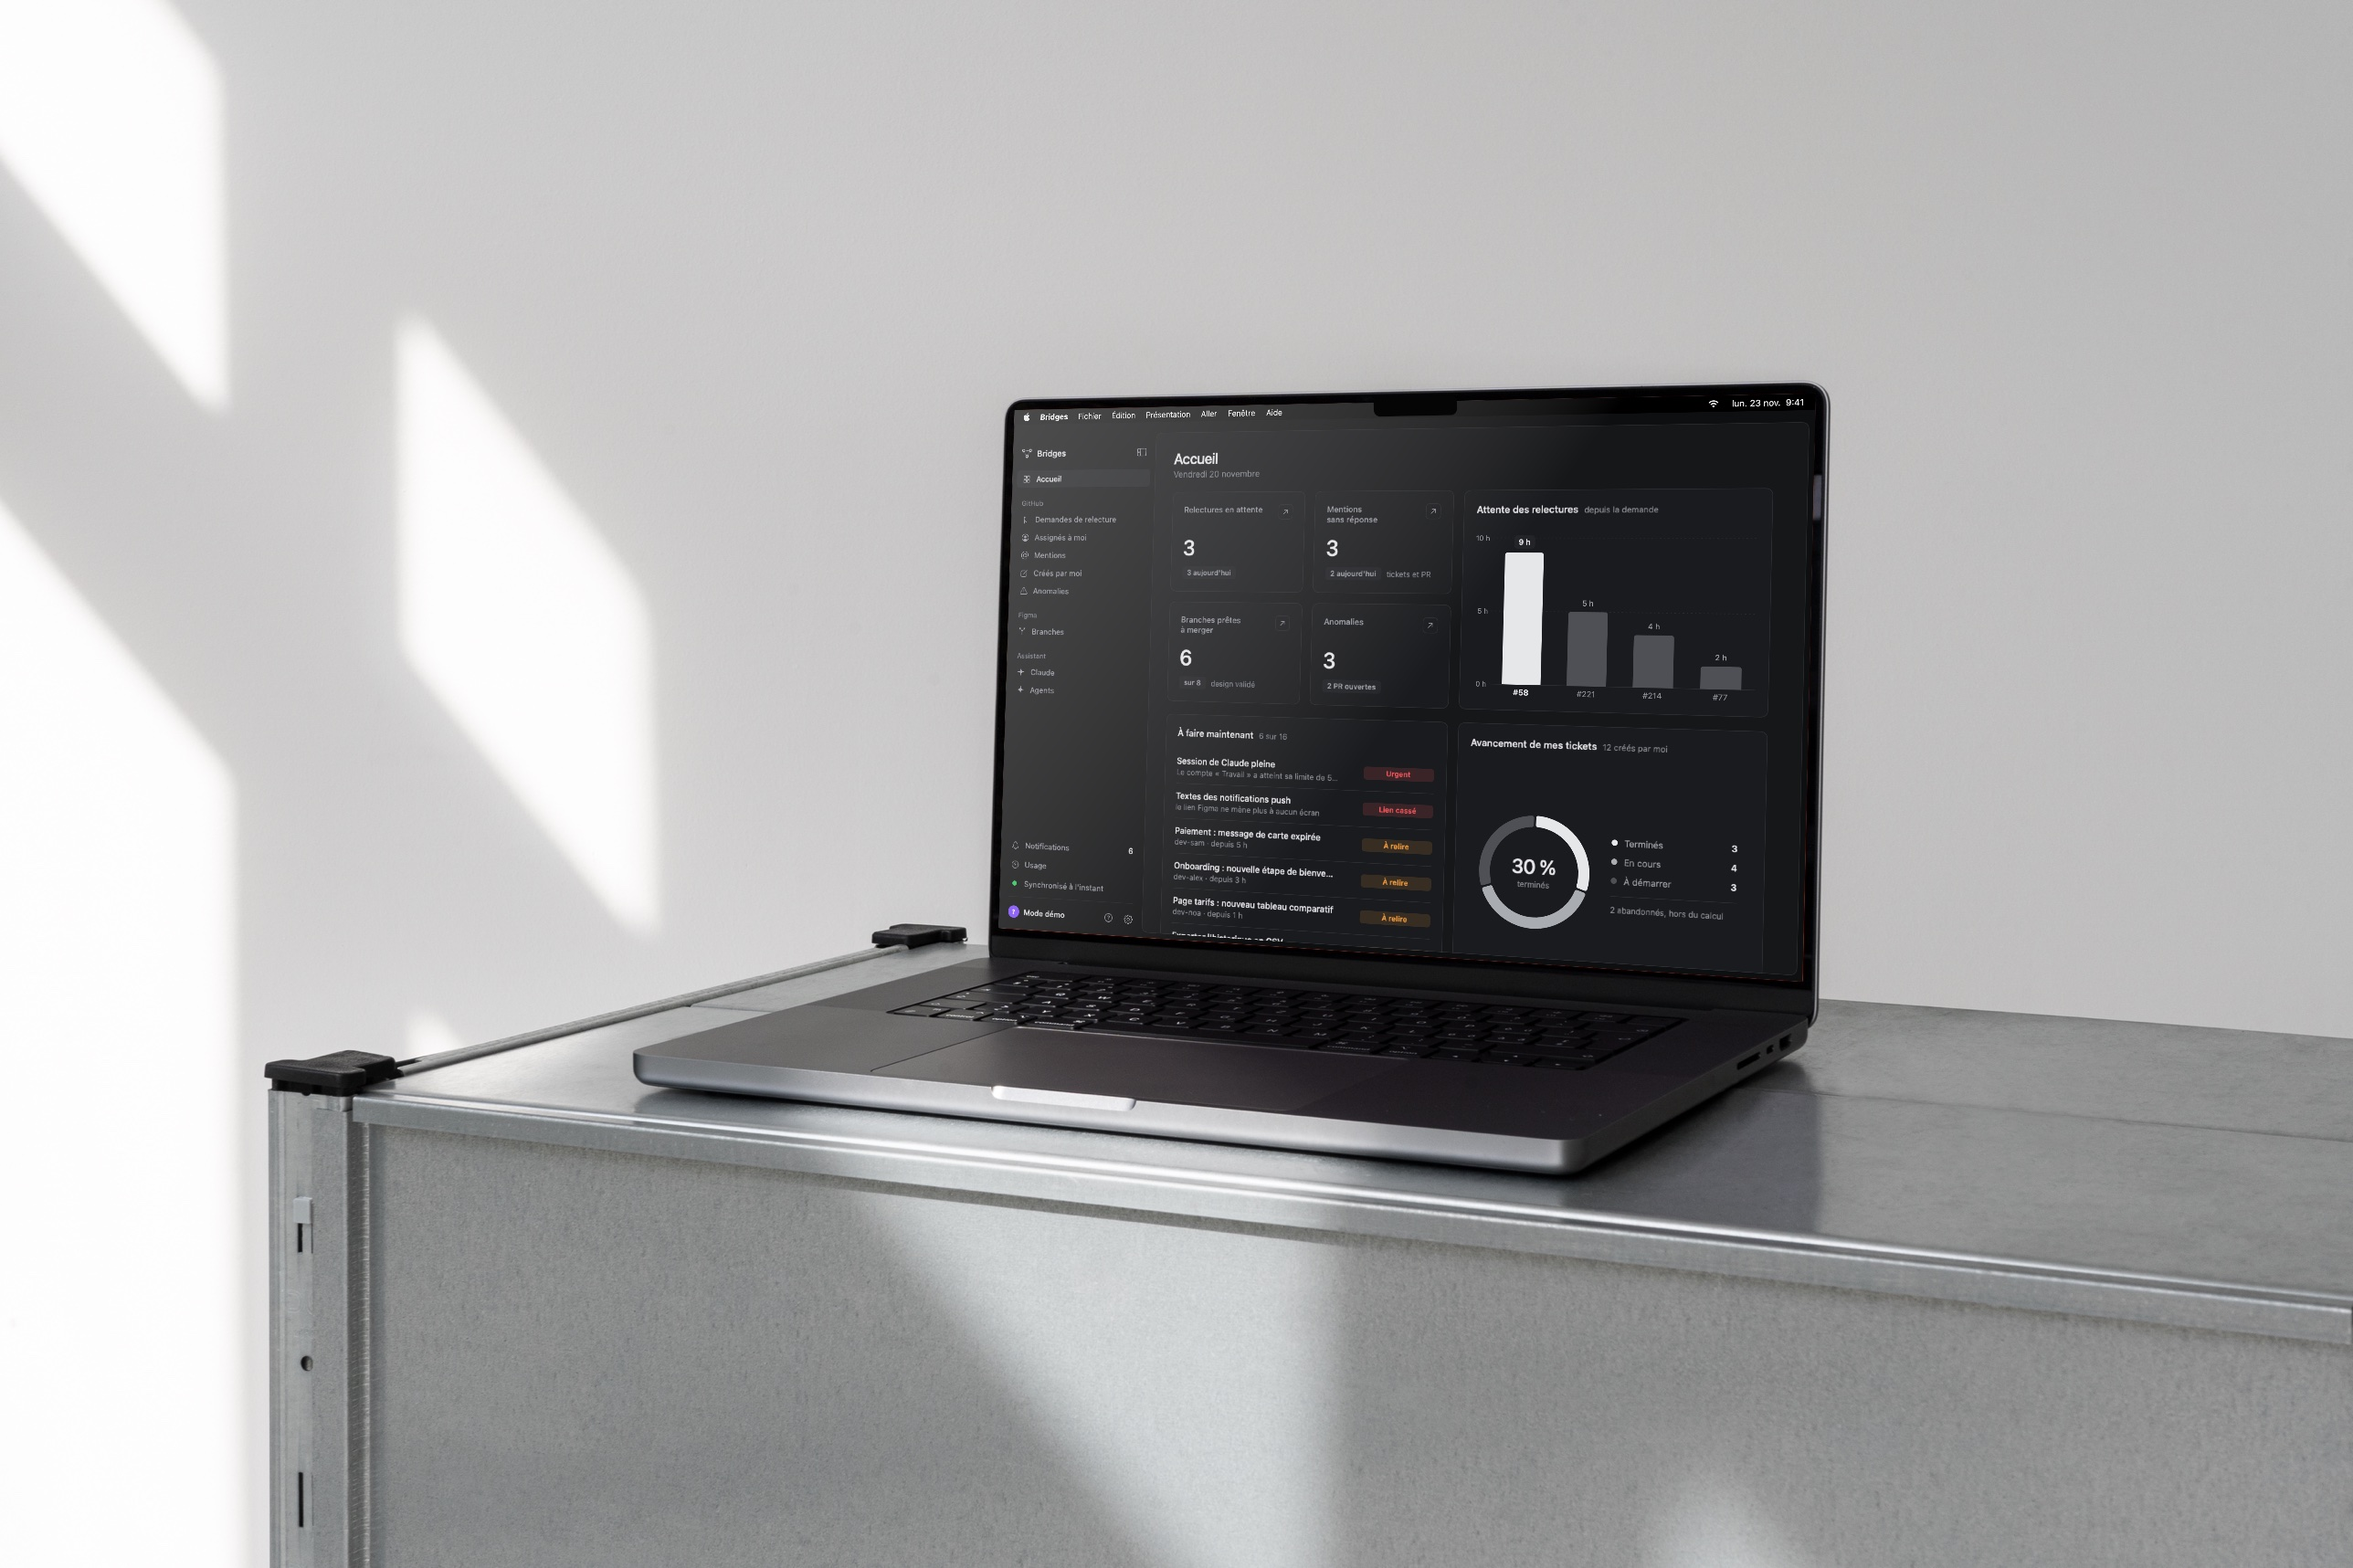
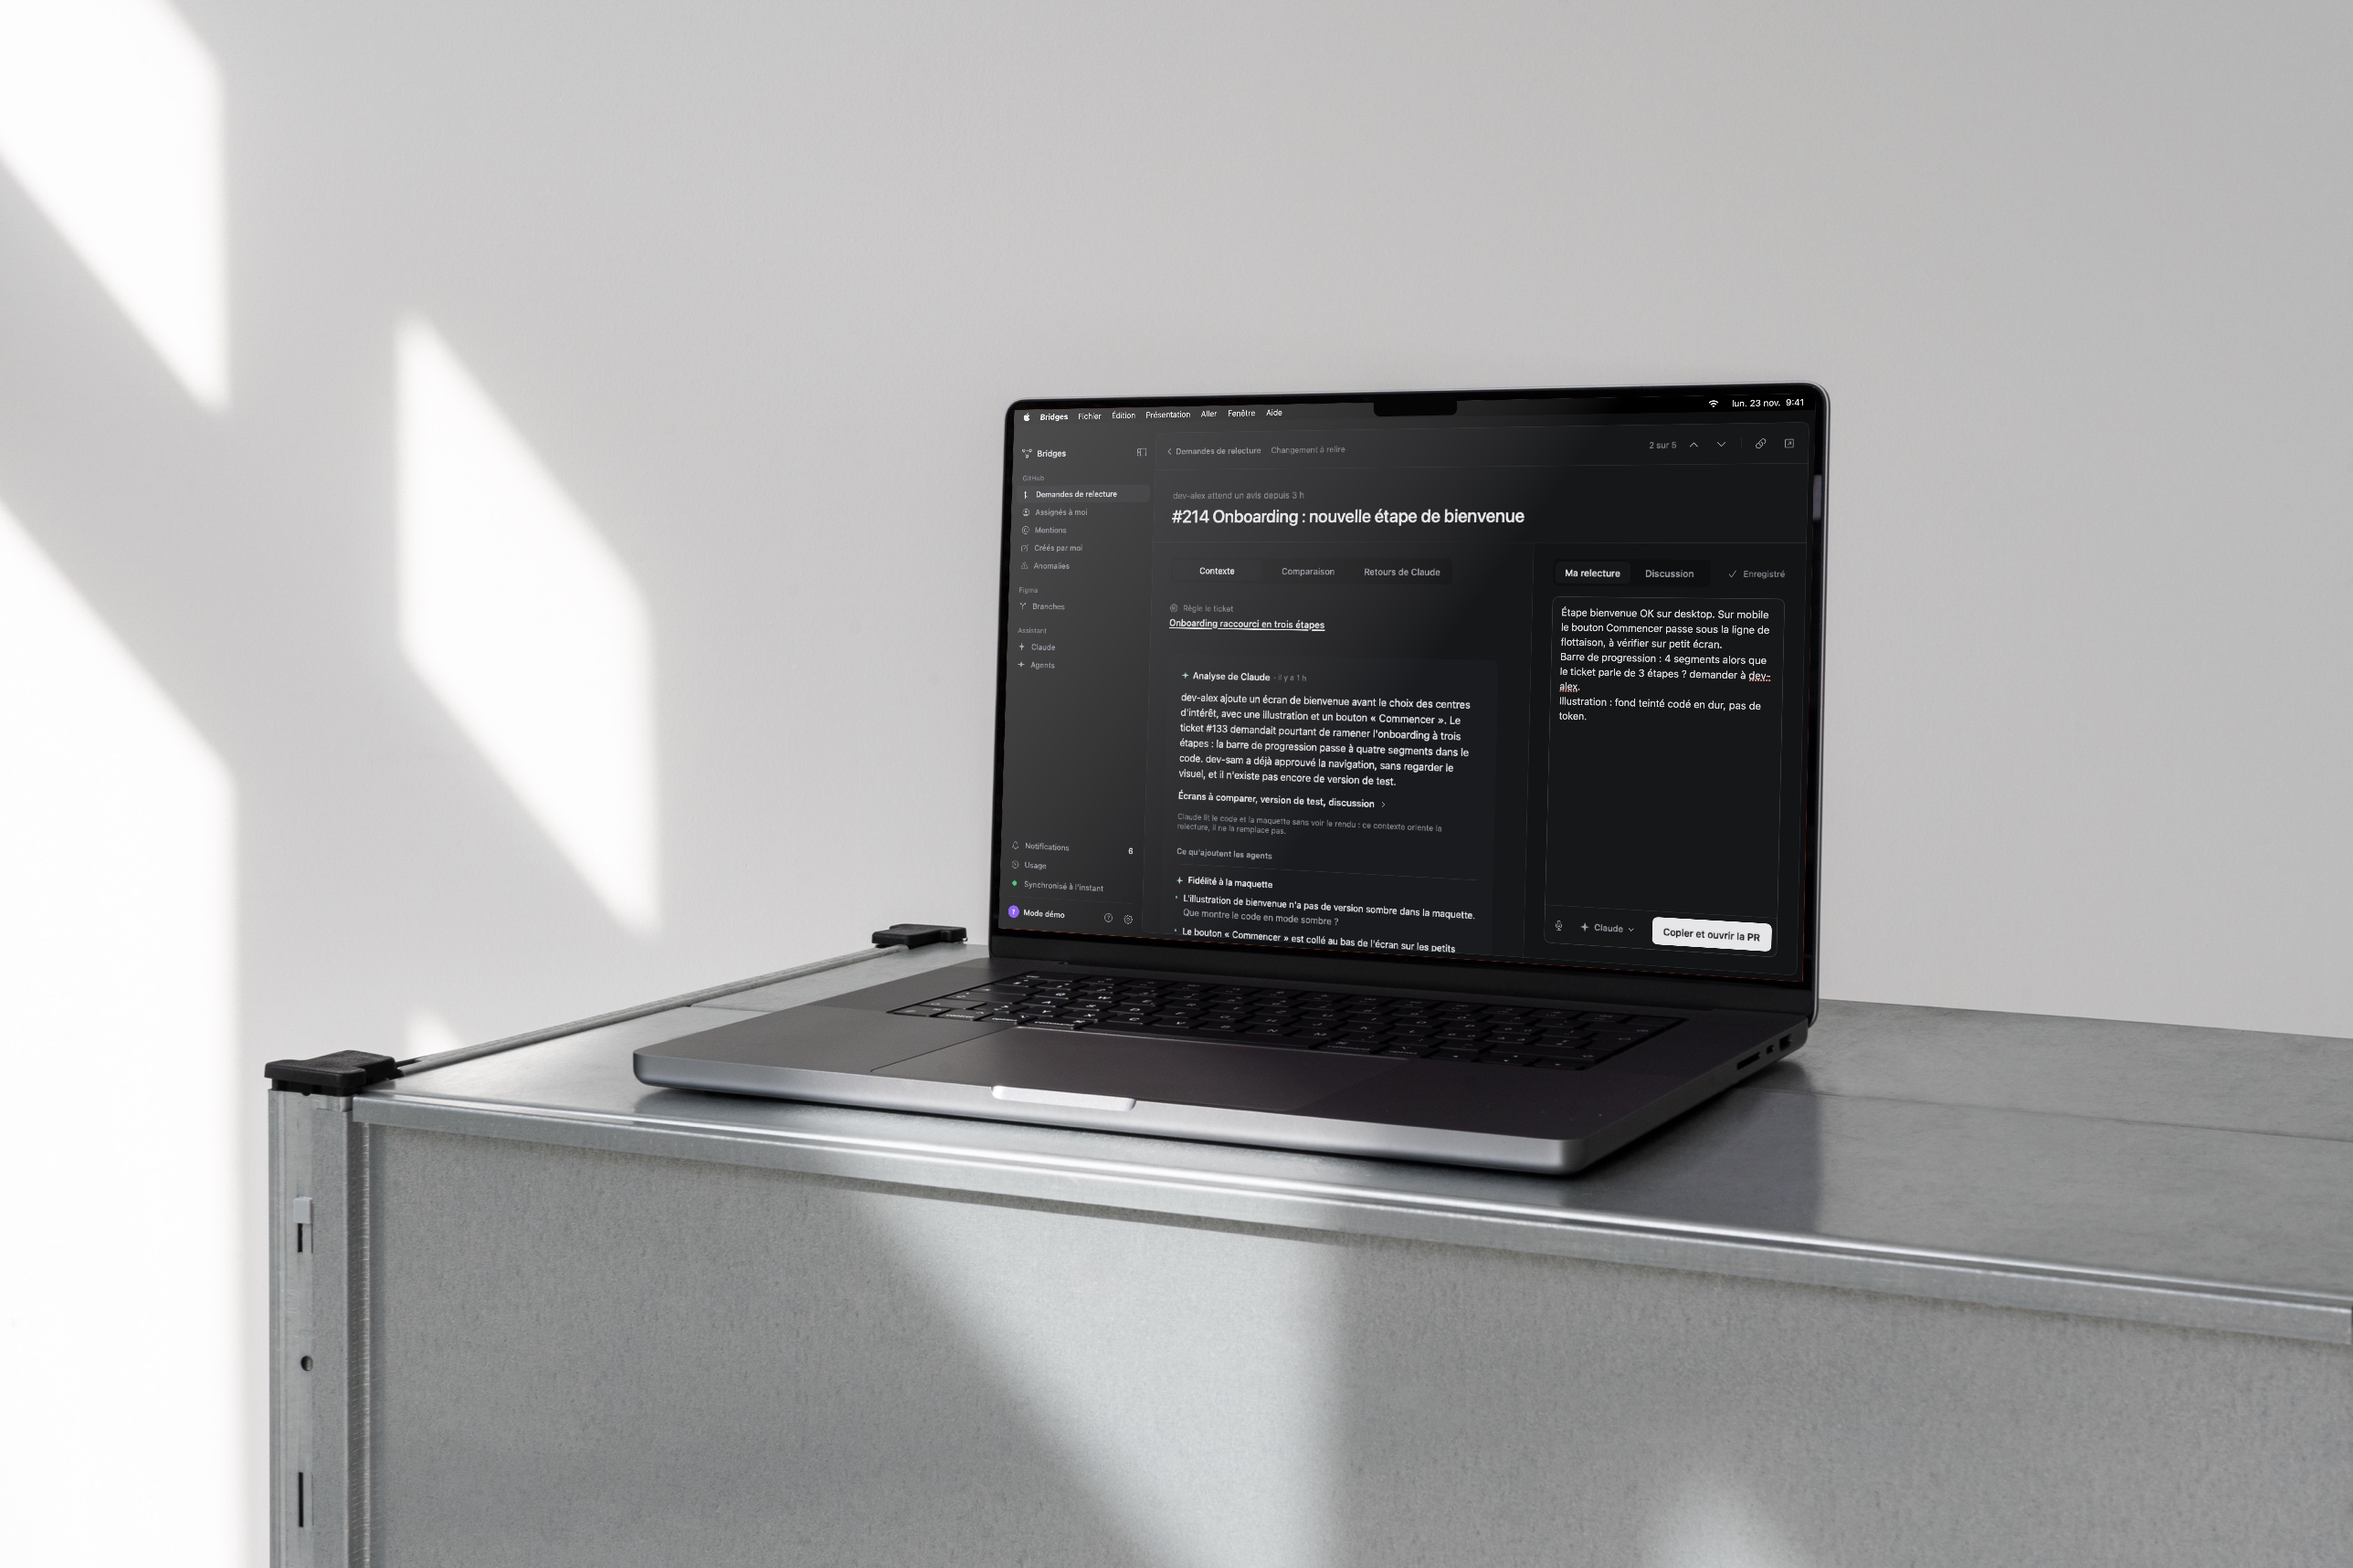
Page de présentation

Changed region(s): [[0.4969, 0.2778, 0.7764, 0.6174], [0.4348, 0.3087, 0.4658, 0.3704], [0.4348, 0.4013, 0.4658, 0.4321]]

diff --git a/CHANGELOG.md b/CHANGELOG.md
@@ -3,15 +3,18 @@
 Une version est publiée chaque lundi à 7 h. Chaque version est signée « Developer ID » et notarisée par Apple ; l'application
 propose elle-même son installation.
 
+## 1.15.0 — 20 novembre 2026
+
+- **Ouverture** : l'application s'ouvre sur les demandes de relecture.
+
 ## 1.14.1 — 20 novembre 2026
 
-- **Accueil** : l'avancement des tickets garde l'anneau et sa légende côte à côte dès une fenêtre de 1 280 points, centrés dans leur carte.
+- **Correctif** : ajustements d'affichage.
 
 ## 1.14.0 — 20 novembre 2026
 
-- **Nouvel accueil** : quatre chiffres clés (relectures en attente, mentions sans réponse, branches prêtes à merger, anomalies), chacun ouvrant son écran ; l'attente de chaque relecture en colonnes, la plus ancienne mise en avant ; « À faire maintenant » avec l'état de chaque action en toutes lettres (Urgent, À relire, À répondre, À maquetter, À merger) ; l'avancement des tickets créés en anneau ; les branches Figma en tableau. Les graphiques passent en gris neutres : seules les couleurs d'état signalent.
 - **Agents** : un agent porte l'étoile de Claude, dans la barre latérale, la palette, l'écran Agents et les analyses.
-- **Correctifs** : les cartes de l'accueil ne débordent plus de la fenêtre ; deux tickets dont la description avait la même longueur ne partagent plus leurs liens Figma.
+- **Correctif** : deux tickets dont la description avait la même longueur ne partagent plus leurs liens Figma.
 
 ## 1.13.0 — 20 novembre 2026
 
@@ -24,16 +27,13 @@ propose elle-même son installation.
 
 ## 1.12.0 — 20 novembre 2026
 
-- **Accueil en trois colonnes** : quatre graphiques sur deux rangées (attente des relectures, demandes reçues, branches Figma, tickets créés) et la liste « À faire maintenant » sur toute la hauteur de la troisième colonne. Le titre « N actions en attente » et la carte du forfait Claude disparaissent : la date suffit, et l'usage reste dans la barre latérale.
 - **Aide** : un centre d'aide en ligne, bridges.works/aide, s'ouvre depuis le menu Aide (⌘?), la palette de commandes, Réglages › À propos ou l'icône « ? » à côté des réglages, en bas de la barre latérale. Les retours s'y envoient sans inscription ; « Copier et écrire à l'assistance » joint le diagnostic à un e-mail prêt à compléter.
 - **Accessibilité** : « Réduire la transparence » et « Différencier sans couleur » suivent macOS et se règlent dans Réglages › Accessibilité ; les pastilles d'état prennent alors une forme distincte (urgent, à traiter, prêt). Avec VoiceOver, les branches, les conversations et les résultats de la palette se lisent d'un bloc, les en-têtes de groupe sont des titres repliables, la séparation entre le contexte et les notes se règle aux flèches, et les messages de confirmation sont annoncés.
 - **Textes** : les demandes d'accès au micro et à la dictée adoptent la formulation impersonnelle du reste de l'application.
 
 ## 1.11.0 — 19 novembre 2026
 
-- **Accueil épuré et réordonné** : la ligne des cinq chiffres clés disparaît. Sous le titre (« 17 actions en attente »)
-  viennent d'abord les actions du jour et l'attente des relectures, puis les demandes reçues et les branches Figma ; les
-  tickets créés et le forfait Claude passent en bas.
+- **Correctif** : ajustements d'affichage.
 
 ## 1.10.0 — 19 novembre 2026
 
@@ -46,16 +46,11 @@ propose elle-même son installation.
 
 ## 1.9.0 — 19 novembre 2026
 
-- **Accueil plus lisible** : la page occupe toute la largeur de la fenêtre ; les chiffres clés sont nettement plus grands ; le
-  forfait Claude s'affiche en deux anneaux (session et semaine) ; « Demandes reçues » montre chaque jour sur un rail, les
-  relectures et les mentions empilées ; les tickets créés et les branches Figma ont un anneau de répartition avec le chiffre clé
-  au centre. Les cartes d'une même rangée ont la même hauteur.
-- **Barre latérale** : plus de compteurs à côté des entrées (le nombre reste dans l'infobulle et sur l'accueil). L'état de la
+- **Barre latérale** : plus de compteurs à côté des entrées (le nombre reste dans l'infobulle). L'état de la
   synchronisation devient une ligne, entre « Usage » et « Replier la barre latérale », qui actualise d'un clic. La marque est
   alignée sur la barre du panneau.
 - **Relectures** : « Règle le ticket » s'affiche au-dessus du nom du ticket, qui garde toute la largeur.
-- **Textes** : l'accueil et l'en-tête des relectures passent à une formulation impersonnelle (« 16 actions en attente »,
-  « dev-alex attend un avis »).
+- **Textes** : l'en-tête des relectures passe à une formulation impersonnelle (« dev-alex attend un avis »).
 
 ## 1.8.0 — 19 novembre 2026
 
@@ -141,24 +136,18 @@ Version publiée par anticipation, sans attendre le lundi.
 
 ## 1.4.2 — 19 novembre 2026
 
-- **Accueil** : graphiques en nuances de gris bleuté (une seule teinte, quatre clartés contrastées) ; les couleurs franches
-  restent réservées aux signaux d'état.
+- **Correctif** : ajustements d'affichage.
 
 ## 1.4.1 — 19 novembre 2026
 
 - **Correctif — grands écrans** : les vues détaillées gardent une largeur maximale, centrée ; le contexte occupe toute sa
   colonne au lieu de laisser un vide au centre.
-- **Accueil** : graphiques redessinés (cartes à filet fin, barres fines, chiffres clés en tête de chaque graphique, détail au
-  survol) et chiffres clés regroupés en une seule bande.
 - **Barre latérale** : le bouton de repli rejoint les entrées du bas, aligné sur leurs icônes.
 
 ## 1.4.0 — 19 novembre 2026
 
 Version publiée par anticipation, sans attendre le lundi.
 
-- **Accueil** : nouvel écran d'ouverture. Chiffres clés (relectures, mentions, tickets assignés, anomalies, branches à
-  merger), actions du jour classées par urgence avec accès direct à l'élément, graphiques (demandes reçues sur 14 jours,
-  attente des relectures, avancement des tickets créés, état des branches Figma) et usage du forfait Claude.
 - **Barre latérale** : le bouton « Accessibilité » est retiré ; les réglages restent dans Réglages › Accessibilité.
 
 ## 1.3.0 — 19 novembre 2026
@@ -198,7 +187,7 @@ Version publiée par anticipation, sans attendre le lundi.
   signalés sur les tickets, les branches et les relectures, avec l'indication d'une dépendance déjà notée ou non.
 - **Liens Figma cassés** : les liens de tickets qui ne mènent plus à aucun écran sont signalés.
 - **Délai de relecture** : le réglage est retiré.
-- **Accueil** : l'étape Figma distingue l'accès au compte et le choix des fichiers ; plusieurs fichiers peuvent être ajoutés.
+- **Premier lancement** : l'étape Figma distingue l'accès au compte et le choix des fichiers ; plusieurs fichiers peuvent être ajoutés.
 - **Correctif** : les menus « … », « Rappeler plus tard », « Importer » et « Demander à un agent » s'ouvrent de nouveau.
 
 ## 1.1.0 — 18 novembre 2026
